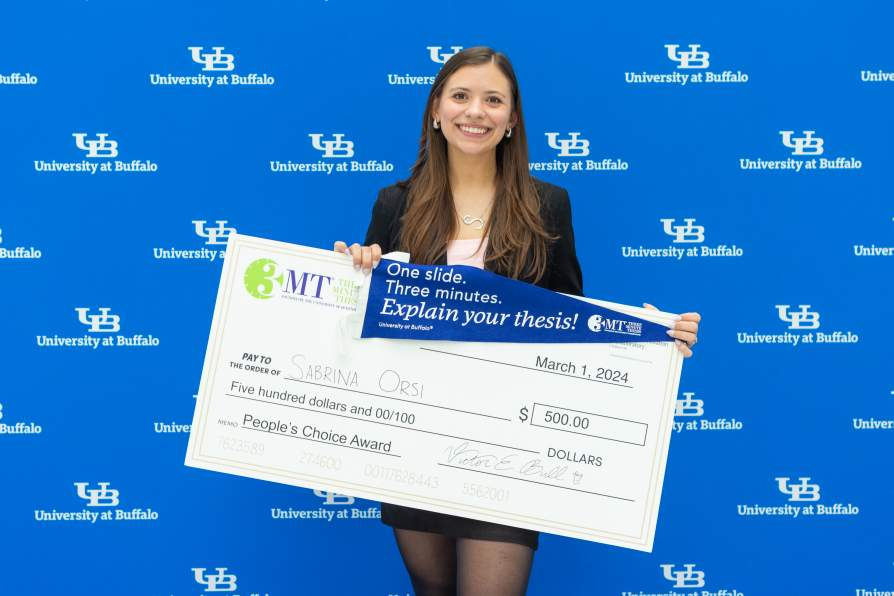
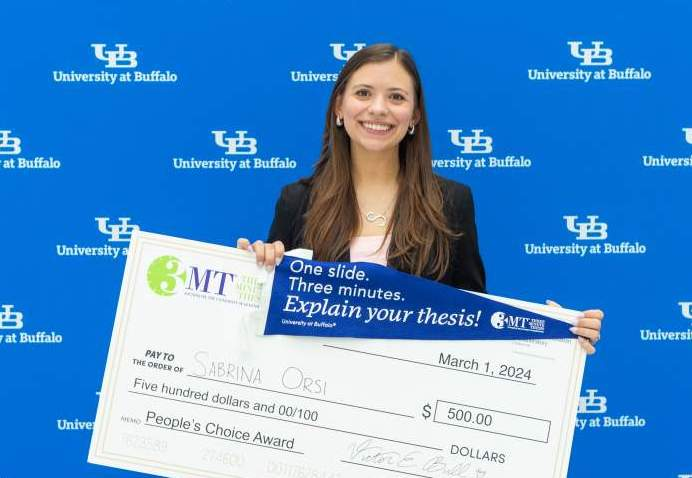
cropped news images and added clinical trial section to project

diff --git a/projects.html b/projects.html
@@ -65,6 +65,33 @@
           </a>
         </div>
       </section>
+
+      <!-- New Section: Our Clinical Trials -->
+      <section>
+        <h2>Our Clinical Trials</h2>
+        <p>
+          Explore our ongoing clinical trials aimed at advancing cancer treatment through innovative dietary and therapeutic interventions.
+        </p>
+        <div class="clinical-trials-gallery">
+          <div class="clinical-trial-card">
+            <img src="images/snac_flyer.jpg" alt="Clinical Trials Flyer" />
+            <div class="clinical-trial-links">
+              <a href="https://clinicaltrials.gov/study/NCT05359848?cond=cancer&intr=diet&rank=4" target="_blank">
+                <h3>Pilot Study: Intermittent Caloric Restriction</h3>
+                <p>A feasibility study of intermittent caloric restriction plus a plant-based diet in cancer patients receiving chemotherapy.</p>
+              </a>
+              <a href="https://clinicaltrials.gov/study/NCT06172283?locStr=Buffalo,%20NY&country=US&state=New%20York&city=Buffalo&cond=cancer&intr=diet&page=2&rank=12" target="_blank">
+                <h3>Intermittent Fasting in Prostate Cancer</h3>
+                <p>Investigating the effects of intermittent fasting in prostate cancer patients receiving androgen deprivation therapy.</p>
+              </a>
+              <a href="https://clinicaltrials.gov/study/NCT06172283?locStr=Buffalo,%20NY&country=US&state=New%20York&city=Buffalo&cond=cancer&intr=diet&page=2&rank=12" target="_blank">
+                <h3>Dietary Intervention with Low-Protein Meals</h3>
+                <p>A pilot and feasibility study of a dietary intervention with low-protein meals in cancer patients receiving immunotherapies.</p>
+              </a>
+            </div>
+          </div>
+        </div>
+      </section>
     </main>
 
     <footer>

diff --git a/style.css b/style.css
@@ -274,3 +274,57 @@ footer p {
   color: #666;
   margin: 0;
 }
+
+/* Clinical Trials Section */
+.clinical-trials-gallery {
+  display: flex;
+  justify-content: center;
+  margin-top: 1.5em;
+}
+
+.clinical-trial-card {
+  text-align: center;
+  width: 100%;
+  max-width: 600px; /* Limit the width of the card */
+}
+
+.clinical-trial-card img {
+  width: 100%;
+  height: auto;
+  border-radius: 10px; /* Rounded corners for the image */
+  box-shadow: 0 4px 6px rgba(0, 0, 0, 0.1); /* Subtle shadow for depth */
+  margin-bottom: 1em;
+}
+
+.clinical-trial-links {
+  display: flex;
+  flex-direction: column;
+  gap: 1em; /* Space between links */
+}
+
+.clinical-trial-links a {
+  text-decoration: none;
+  color: inherit;
+  background: #f9fafc;
+  border: 1px solid #ddd;
+  border-radius: 10px;
+  padding: 1em;
+  transition: background-color 0.3s ease, box-shadow 0.3s ease;
+}
+
+.clinical-trial-links a:hover {
+  background-color: #f0f8ff; /* Light blue hover effect */
+  box-shadow: 0 4px 8px rgba(0, 0, 0, 0.1); /* Slight shadow on hover */
+}
+
+.clinical-trial-links h3 {
+  font-size: 1.1em;
+  color: #003366;
+  margin-bottom: 0.5em;
+}
+
+.clinical-trial-links p {
+  font-size: 0.9em;
+  color: #666;
+  margin: 0;
+}
